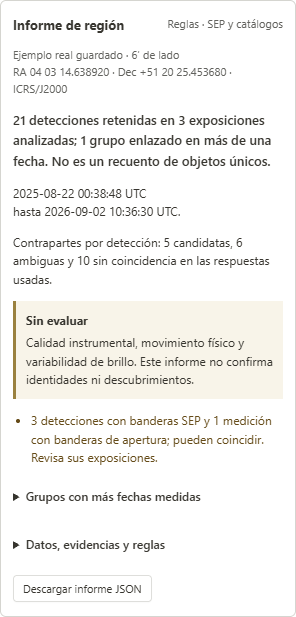
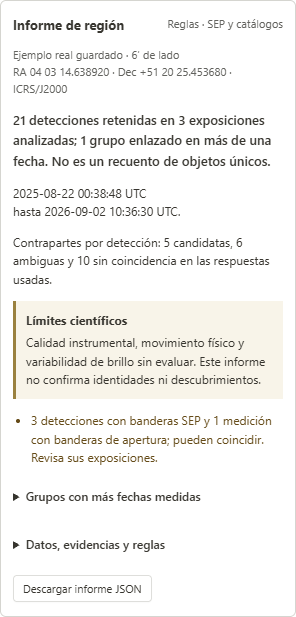
Connect image preparation guidance to the same region and verify the complete workflow

Changed region(s): [[0.2432, 0.5543, 0.9122, 0.6467], [0.0912, 0.4927, 0.4257, 0.5235], [0.0912, 0.5851, 0.2432, 0.6467]]

diff --git a/tests/interpretation.spec.ts b/tests/interpretation.spec.ts
@@ -98,7 +98,7 @@ test('catalog-only results stay distinct from pixel detections and report provid
   });
   await page.goto('/?ra=60.8109955&dec=51.3404038&fov=.1&size=.1');
   await openControls(page);
-  await page.getByRole('button', { name: 'Interpretar región', exact: true }).click();
+  await page.getByRole('button', { name: 'Consultar solo catálogos', exact: true }).click();
   const report = page.getByTestId('interpretation-report');
   await expect(report).toContainText('Aún no hay mediciones de píxeles');
   await expect(report.locator('[data-rule="catalog-partial"]')).toContainText('incompletos');
@@ -108,7 +108,70 @@ test('catalog-only results stay distinct from pixel detections and report provid
   expect(json.groups).toEqual([]);
   expect(json.catalog.byProvider.gaia).toBe(0);
   expect(json.catalog.errors).toHaveLength(1);
+  await expect(report).toContainText('Imágenes pendientes de analizar');
+  await expect(report.getByTestId('report-unassessed')).toHaveCount(0);
+  await report.getByRole('button', { name: 'Abrir Animación', exact: true }).click();
+  await expect(
+    page
+      .locator('[data-control-menu]')
+      .filter({ has: page.locator(':scope > summary strong', { hasText: /^Animación$/ }) }),
+  ).toHaveAttribute('open', '');
 });
+
+for (const mobile of [false, true])
+  test(`preparing images guides the same region from the mosaic to a measured report (${mobile ? 'mobile' : 'desktop'})`, async ({
+    page,
+  }) => {
+    if (mobile) await page.setViewportSize({ width: 390, height: 844 });
+    await installArchiveFixtures(page);
+    await page.route('**/api/catalog?**', (r) =>
+      r.fulfill({
+        body: readFileSync(
+          'tests/fixtures/spherex/' +
+            (new URL(r.request().url()).searchParams.get('provider') === 'gaia'
+              ? 'gaia-dr3-region.xml'
+              : 'simbad-region.json'),
+        ),
+        contentType: 'text/plain',
+      }),
+    );
+    await page.goto('/?ra=60.8109955&dec=51.3404038&fov=.075');
+    await page.getByRole('button', { name: 'Mostrar controles' }).click();
+    const analysis = page
+      .locator('[data-control-menu]')
+      .filter({ has: page.locator(':scope > summary strong', { hasText: /^Análisis$/ }) });
+    await analysis.locator(':scope > summary').click();
+    await expect(page.getByRole('button', { name: 'Interpretar región', exact: true })).toHaveCount(
+      0,
+    );
+    await page
+      .getByRole('button', { name: 'Preparar imágenes para analizar', exact: true })
+      .press('Enter');
+    const animation = page
+      .locator('[data-control-menu]')
+      .filter({ has: page.locator(':scope > summary strong', { hasText: /^Animación$/ }) });
+    await expect(animation).toHaveAttribute('open', '');
+    await expect(animation.locator(':scope > summary')).toBeFocused();
+    await expect(page.getByLabel('Tamaño de región', { exact: true })).toHaveValue('0.075');
+    await page.getByRole('button', { name: 'Buscar exposiciones aquí', exact: true }).click();
+    await page.getByRole('button', { name: 'Animar región', exact: true }).click();
+    await expect(page.locator('.region-canvas')).toHaveAttribute('data-ready', 'true', {
+      timeout: 30000,
+    });
+    await page.getByRole('button', { name: 'Interpretar región', exact: true }).click();
+    await expect(page.getByTestId('interpretation-summary')).toContainText(
+      '3 exposiciones analizadas',
+      { timeout: 30000 },
+    );
+    await expect(
+      page
+        .getByTestId('interpretation-report')
+        .getByRole('heading', { name: 'Informe de región', exact: true }),
+    ).toBeVisible();
+    await expect(
+      page.getByRole('button', { name: 'Consultar solo catálogos', exact: true }),
+    ).toHaveCount(0);
+  });
 
 test('a wrong FITS date is omitted from the report and its evidence, never disguised as a good exposure', async ({
   page,

diff --git a/src/data/StudyPanel.tsx b/src/data/StudyPanel.tsx
@@ -16,7 +16,7 @@ import { studyRegion } from './study';
 import { PixelResults } from './PixelResults';
 import { RegionReport } from './interpretation/RegionReport';
 interface Props {
-  onPrepareImages?: () => void;
+  onPrepareImages?: (region: SkyRegion) => void;
   onOpenExample: () => void;
   imageSource?: FITSSource;
   analyzePixels: (
@@ -54,6 +54,12 @@ export function StudyPanel(props: Props) {
     setLoading(false);
     setProgress(undefined);
   }, [props.imageSource?.sequence?.id]);
+  const analysisRegion = props.imageSource?.sequence?.region ??
+    props.region ?? {
+      longitude: props.view.longitude,
+      latitude: props.view.latitude,
+      sizeDeg: Math.max(0.02, Math.min(0.25, props.view.fov)),
+    };
   async function run() {
     abort.current?.abort();
     const controller = new AbortController();
@@ -61,11 +67,7 @@ export function StudyPanel(props: Props) {
     setLoading(true);
     setError('');
     props.onSelected(undefined);
-    const region = props.region ?? {
-      longitude: props.view.longitude,
-      latitude: props.view.latitude,
-      sizeDeg: Math.max(0.02, Math.min(0.25, props.view.fov)),
-    };
+    const region = analysisRegion;
     try {
       const result = await studyRegion(region, controller.signal, props.imageSource?.dataset);
       if (!controller.signal.aborted) {
@@ -123,7 +125,7 @@ export function StudyPanel(props: Props) {
           <button
             className="plain-button"
             disabled={loading || !props.onPrepareImages}
-            onClick={props.onPrepareImages}
+            onClick={() => props.onPrepareImages?.(analysisRegion)}
           >
             Preparar imágenes para analizar
           </button>
@@ -181,14 +183,7 @@ export function StudyPanel(props: Props) {
       )}
       {!loading && (result || props.pixelStudy) && (
         <RegionReport
-          region={
-            props.imageSource?.sequence?.region ??
-            props.region ?? {
-              longitude: props.view.longitude,
-              latitude: props.view.latitude,
-              sizeDeg: Math.max(0.02, Math.min(0.25, props.view.fov)),
-            }
-          }
+          region={analysisRegion}
           source={props.imageSource}
           pixels={props.pixelStudy}
           catalog={result}

diff --git a/src/ui/ExplorerLayout.tsx b/src/ui/ExplorerLayout.tsx
@@ -11,6 +11,7 @@ import { ControlMenu } from './ControlMenu';
 import { FloatingPanel } from './FloatingPanel';
 
 interface Props {
+  animationToolsRequest?: number;
   selectingRegion?: boolean;
   view: ViewState;
   onViewChange: (next: ViewState) => void;
@@ -44,6 +45,7 @@ export function formatFieldOfView(fov: number): string {
 }
 
 export function ExplorerLayout({
+  animationToolsRequest = 0,
   selectingRegion = false,
   view,
   onViewChange,
@@ -70,6 +72,18 @@ export function ExplorerLayout({
 }: Props) {
   const [open, setOpen] = useState(false);
   const toggle = useRef<HTMLButtonElement>(null);
+  const animationMenu = useRef<HTMLDetailsElement>(null);
+  useEffect(() => {
+    if (!animationToolsRequest) return;
+    setOpen(true);
+    const menu = animationMenu.current;
+    if (menu) menu.open = true;
+    const frame = requestAnimationFrame(() => {
+      menu?.querySelector('summary')?.focus();
+      menu?.scrollIntoView({ block: 'start' });
+    });
+    return () => cancelAnimationFrame(frame);
+  }, [animationToolsRequest]);
   const close = () => {
     setOpen(false);
     toggle.current?.focus();
@@ -296,7 +310,12 @@ export function ExplorerLayout({
             </details>
           </section>
         </ControlMenu>
-        <ControlMenu icon="animation" title="Animación" description="Región, fechas y velocidad">
+        <ControlMenu
+          menuRef={animationMenu}
+          icon="animation"
+          title="Animación"
+          description="Región, fechas y velocidad"
+        >
           <section className="control-section" aria-labelledby="time-heading">
             <div className="section-title">
               <h2 id="time-heading">Tiempo · exposiciones reales</h2>

diff --git a/tests/study.spec.ts b/tests/study.spec.ts
@@ -21,7 +21,7 @@ test('real catalog classes are explicit, missing astrometry stays unknown and ma
   const sky = page.getByTitle('Cielo SPHEREx').contentFrame().locator('#sky');
   await expect(sky).toHaveAttribute('data-ready', 'true', { timeout: 30000 });
   await openControls(page);
-  await page.getByRole('button', { name: 'Interpretar región', exact: true }).click();
+  await page.getByRole('button', { name: 'Consultar solo catálogos', exact: true }).click();
   await expect(page.getByTestId('study-count')).toContainText('entradas catalogadas');
   const marks = page.locator('.study-markers [data-object-id]');
   expect(await marks.count()).toBeGreaterThan(30);
@@ -46,7 +46,7 @@ test('a failed catalog stays explicit while the other provider remains useful', 
   });
   await page.goto('/?ra=60.8109955&dec=51.3404038&fov=.1&size=.1');
   await openControls(page);
-  await page.getByRole('button', { name: 'Interpretar región', exact: true }).click();
+  await page.getByRole('button', { name: 'Consultar solo catálogos', exact: true }).click();
   await expect(page.getByRole('alert')).toContainText('Gaia DR3 no está disponible');
   await expect(page.getByTestId('study-count')).toContainText('entradas catalogadas');
   await expect(page.locator('.study-markers [data-provider="Gaia DR3"]')).toHaveCount(0);

diff --git a/src/App.tsx b/src/App.tsx
@@ -63,6 +63,7 @@ function ExplorerApp() {
   const [restoreError, setRestoreError] = useState('');
   const [restoreAttempt, setRestoreAttempt] = useState(0);
   const [exampleRequest, setExampleRequest] = useState(0);
+  const [animationToolsRequest, setAnimationToolsRequest] = useState(0);
   const [study, setStudy] = useState<RegionStudy>();
   const [showStudy, setShowStudy] = useState(true);
   const [selectedObject, setSelectedObject] = useState<StudyObject>();
@@ -289,6 +290,7 @@ function ExplorerApp() {
 
   return (
     <ExplorerLayout
+      animationToolsRequest={animationToolsRequest}
       selectingRegion={selectingRegion}
       view={view}
       onViewChange={updateView}
@@ -318,6 +320,10 @@ function ExplorerApp() {
       showingObservation={Boolean(observationSource)}
       studyTools={
         <StudyPanel
+          onPrepareImages={(target) => {
+            setRegion(target);
+            setAnimationToolsRequest((n) => n + 1);
+          }}
           onOpenExample={() => {
             setRestoreState('none');
             setRestoring(false);

diff --git a/src/ui/ControlMenu.tsx b/src/ui/ControlMenu.tsx
@@ -1,4 +1,4 @@
-import type { ReactNode } from 'react';
+import type { ReactNode, Ref } from 'react';
 
 const icons = {
   location: 'M12 2v4m0 12v4M2 12h4m12 0h4M18 12a6 6 0 1 1-12 0 6 6 0 0 1 12 0Z',
@@ -13,18 +13,20 @@ const icons = {
 
 /** Native disclosure keeps forms mounted and works with keyboard and touch. */
 export function ControlMenu({
+  menuRef,
   icon,
   title,
   description,
   children,
 }: {
+  menuRef?: Ref<HTMLDetailsElement>;
   icon: keyof typeof icons;
   title: string;
   description: string;
   children: ReactNode;
 }) {
   return (
-    <details className="control-menu" data-control-menu>
+    <details ref={menuRef} className="control-menu" data-control-menu>
       <summary>
         <svg className="control-menu-icon" viewBox="0 0 24 24" aria-hidden="true" focusable="false">
           <path d={icons[icon]} />

diff --git a/src/data/interpretation/RegionReport.tsx b/src/data/interpretation/RegionReport.tsx
@@ -13,7 +13,7 @@ import { buildInterpretation, countText, exportInterpretation, interpretGroup } 
 import './report.css';
 
 interface Props {
-  onPrepareImages?: () => void;
+  onPrepareImages?: (region: SkyRegion) => void;
   region: SkyRegion;
   source?: FITSSource;
   pixels?: PixelStudy;
@@ -163,7 +163,7 @@ export function RegionReport({
               : 'Solo se consultaron catálogos. Carga las exposiciones en Animación y vuelve a Interpretar región para medir los píxeles.'}
           </p>
           {!source?.sequence?.region && onPrepareImages && (
-            <button className="plain-button" onClick={onPrepareImages}>
+            <button className="plain-button" onClick={() => onPrepareImages(report.region)}>
               Abrir Animación
             </button>
           )}

diff --git a/docs/INTERPRETACION-REGION.md b/docs/INTERPRETACION-REGION.md
@@ -1,5 +1,13 @@
 # Informe de región
 
+## Cargar imágenes antes de analizar
+
+Desde el mosaico, **Análisis → Preparar imágenes para analizar** abre y enfoca **Animación**, conservando el centro y el tamaño de esa misma región. Pulsa **Buscar exposiciones aquí**, después **Animar región** y vuelve a **Análisis → Interpretar región**. Este último botón solo aparece con una secuencia de imágenes activa.
+
+**Consultar solo catálogos** es una acción independiente. Si la eliges sin imágenes, el resultado se titula **Consulta de catálogos**, muestra **Imágenes pendientes de analizar** y ofrece **Abrir Animación**. No se presenta como análisis de píxeles fallido. Una vez medidas las imágenes aparece **Informe de región**; el bloque **Límites científicos** conserva las evaluaciones que el método todavía no permite realizar.
+
+![Preparación de imágenes antes de interpretar](analysis-prerequisite.png)
+
 En **Análisis → Interpretar región**, eon consulta catálogos y, si hay una secuencia regional activa, analiza sus IMAGE FITS con SEP. Al terminar aparece **Informe de región**. Resume las mediciones disponibles y explica cuáles no permiten una conclusión científica. No entrena un modelo, no usa un chatbot y no realiza llamadas a servicios de IA.
 
 El motor de reglas versionado `eon-evidence-rules-1` funciona localmente con los resultados ya obtenidos. No descarga otra copia de las imágenes ni consulta un catálogo al reproducir cada fecha. El ejemplo NGC 1491 sigue siendo un conjunto real guardado que se abre solo explícitamente. Se identifica como tal; la lectura de sus tablas guardadas no se presenta como consulta en vivo.
